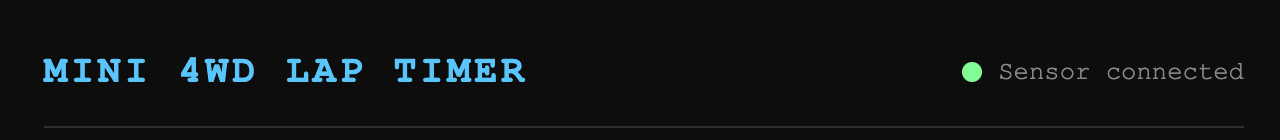
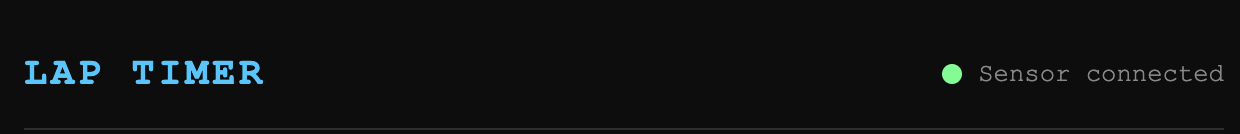
Update branding, docs, and screenshots for Mini4WDGeek.com
- Rename title/footer link from Mini4WDValley.com to Mini4WDGeek.com
- Refresh docs screenshots and add new hardware photos
- Fix README formatting and project structure block
- Update user guide image refs and sensor status section

diff --git a/static/index.html b/static/index.html
@@ -3,13 +3,13 @@
 <head>
   <meta charset="UTF-8">
   <meta name="viewport" content="width=device-width, initial-scale=1.0">
-  <title>Mini 4WD Lap Timer</title>
+  <title>Lap Timer - Mini4WDGeek.com</title>
   <link rel="stylesheet" href="style.css">
 </head>
 <body>
   <div class="container">
     <header>
-      <h1>Mini 4WD Lap Timer</h1>
+      <h1>Lap Timer</h1>
       <div class="status">
         <span class="status-dot" id="status-dot"></span>
         <span id="status-text">Sensor disconnected</span>
@@ -81,7 +81,7 @@
     </div>
 
     <footer>
-      <p>&copy; <span id="copyright-year"></span> <a href="https://Mini4WDValley.com" target="_blank" rel="noopener">Mini4WDValley.com</a></p>
+      <p>&copy; <span id="copyright-year"></span> <a href="https://Mini4WDGeek.com" target="_blank" rel="noopener">Mini4WDGeek.com</a></p>
     </footer>
   </div>
 

diff --git a/docs/user-guide.md b/docs/user-guide.md
@@ -4,7 +4,7 @@
 
 The lap timer tracks your Mini 4WD car's lap times in real time using an IR sensor connected to an Arduino. Open `http://localhost:8080` in your browser to access the timer.
 
-![Full app layout](images/lap-timer-main-layout.png)
+![Full app layout](images/main.png)
 
 ---
 
@@ -13,48 +13,49 @@ The lap timer tracks your Mini 4WD car's lap times in real time using an IR sens
 ![Current Lap and Race timer display](images/lap-timers.png)
 
 ### Current Lap (large orange display)
+
 Shows the time elapsed for the lap currently in progress. Resets to `0:00.0` at the start of each new lap.
 
 ### Race (blue display below)
+
 Shows the total time elapsed for the entire race session, excluding any paused time.
 
 ### Scoreboard
 
 ![Scoreboard display](images/scoreboard.png)
 
-<table border="1" cellpadding="8" cellspacing="0">
-  <thead>
-    <tr>
-      <th>Field</th>
-      <th>Location</th>
-      <th>Description</th>
-    </tr>
-  </thead>
-  <tbody>
-    <tr>
-      <td><strong>Total Time</strong></td>
-      <td>Top left</td>
-      <td>Sum of all completed laps</td>
-    </tr>
-    <tr>
-      <td><strong>Lap</strong></td>
-      <td>Top right</td>
-      <td>Number of completed laps</td>
-    </tr>
-    <tr>
-      <td><strong>Last Lap</strong></td>
-      <td>Bottom left</td>
-      <td>Time of the most recently completed lap</td>
-    </tr>
-    <tr>
-      <td><strong>Best Lap</strong></td>
-      <td>Bottom right</td>
-      <td>Fastest lap of the session — highlighted in gold</td>
-    </tr>
-  </tbody>
-</table>
+Field
+
+Location
+
+Description
+
+**Total Time**
+
+Top left
+
+Sum of all completed laps
+
+**Lap**
+
+Top right
+
+Number of completed laps
+
+**Last Lap**
+
+Bottom left
+
+Time of the most recently completed lap
+
+**Best Lap**
+
+Bottom right
+
+Fastest lap of the session — highlighted in gold
 
 ### Lap History
+
 A scrolling list of every completed lap. The best lap is marked with a ★.
 
 ---
@@ -62,21 +63,27 @@ A scrolling list of every completed lap. The best lap is marked with a ★.
 ## Buttons
 
 ### Start
+
 Appears when the timer is idle. Arms the sensor and waits for the car to cross the IR beam for the first time. A 3-beep countdown plays to signal the timer is ready.
 
 ### Stop
+
 Ends the race session immediately. The session is saved to history. A descending sound plays to confirm.
 
 ### Pause
+
 Freezes both the current lap and race timers. The car's position is noted — use this when you need to interrupt a run.
 
 ### Resume
+
 Appears after pausing. Clicking Resume puts the timer into a waiting state — **the timers do not start immediately**. Place the car at the track and let it pass the IR sensor; the moment it crosses, the race timer resumes and a fresh lap begins. A GO sound plays on the trigger.
 
 ### Reset Time
+
 Appears when paused. Removes the current incomplete lap from the race timer without ending the session. Useful when you want to discard a partial lap before resuming.
 
 ### Reset
+
 Clears all lap data and returns the timer to idle. The session is saved to history before resetting. A descending arpeggio plays to confirm.
 
 ---
@@ -85,69 +92,62 @@ Clears all lap data and returns the timer to idle. The session is saved to histo
 
 Sounds can be toggled on or off in the **Settings** panel at the bottom of the page. The preference is saved between sessions.
 
-<table border="1" cellpadding="8" cellspacing="0">
-  <thead>
-    <tr>
-      <th>Event</th>
-      <th>Sound</th>
-    </tr>
-  </thead>
-  <tbody>
-    <tr>
-      <td>Start armed</td>
-      <td>3 short beeps (countdown)</td>
-    </tr>
-    <tr>
-      <td>Car crosses start line</td>
-      <td>Rising two-note GO burst</td>
-    </tr>
-    <tr>
-      <td>Lap completed</td>
-      <td>Bell ping</td>
-    </tr>
-    <tr>
-      <td>New best lap</td>
-      <td>Ascending arpeggio (C–E–G–C)</td>
-    </tr>
-    <tr>
-      <td>Pause</td>
-      <td>Descending two-tone</td>
-    </tr>
-    <tr>
-      <td>Resume clicked</td>
-      <td>Rising two-tone</td>
-    </tr>
-    <tr>
-      <td>Stop</td>
-      <td>Low descending blip</td>
-    </tr>
-    <tr>
-      <td>Reset Time</td>
-      <td>Soft tick</td>
-    </tr>
-    <tr>
-      <td>Reset</td>
-      <td>Descending arpeggio</td>
-    </tr>
-  </tbody>
-</table>
+Event
+
+Sound
+
+Start armed
+
+3 short beeps (countdown)
+
+Car crosses start line
+
+Rising two-note GO burst
+
+Lap completed
+
+Bell ping
+
+New best lap
+
+Ascending arpeggio (C–E–G–C)
+
+Pause
+
+Descending two-tone
+
+Resume clicked
+
+Rising two-tone
+
+Stop
+
+Low descending blip
+
+Reset Time
+
+Soft tick
+
+Reset
+
+Descending arpeggio
 
 ---
 
 ## Typical Race Flow
 
-1. Click **Start** — 3 beeps confirm the sensor is armed
-2. Release the car — the timer starts the moment it crosses the IR beam
-3. Each time the car completes a lap, the lap time is recorded automatically
-4. Click **Stop** when the race is over — the session is saved
-5. Click **Reset** to clear and start fresh for the next race
+1.  Click **Start** — 3 beeps confirm the sensor is armed
+2.  Release the car — the timer starts the moment it crosses the IR beam
+3.  Each time the car completes a lap, the lap time is recorded automatically
+4.  Click **Stop** when the race is over — the session is saved
+5.  Click **Reset** to clear and start fresh for the next race
 
 ## Pausing Mid-Race
 
-1. Click **Pause** — both timers freeze
-2. Optionally click **Reset Time** to discard the current partial lap
-3. Click **Resume** — the timer waits in a ready state
-4. Send the car through the IR beam — race resumes with a fresh lap
+1.  Click **Pause** — both timers freeze
+2.  Optionally click **Reset Time** to discard the current partial lap
+3.  Click **Resume** — the timer waits in a ready state
+4.  Send the car through the IR beam — race resumes with a fresh lap
 
 ---
 
@@ -161,9 +161,12 @@ Past sessions are stored and accessible via the **Session History** panel at the
 
 ## Connection Status
 
-The indicator in the top-right corner shows the live connection to the server:
+The indicator in the top-right corner shows the live connection to the sensor:
 
-![Connected indicator](images/sensor-connected.png)
+![Green Connected indicator](images/sensor-connected.png)
 
-- **Green dot** — connected, sensor active
-- **Red dot** — disconnected, attempting to reconnect automatically
+-   **Green dot** — connected, sensor active
+
+![Red Connected indicator](images/sensor-disconnected.png)
+
+-   **Red dot** — disconnected, attempting to reconnect automatically

diff --git a/README.md b/README.md
@@ -1,26 +1,26 @@
-# Mini 4WD Lap Timer
+# Mini 4WD Racing Lap Timer
 
 A real-time lap timer for Mini 4WD racing, built with Go and vanilla JavaScript. An Arduino with an IR sensor detects each car pass and triggers lap recording via serial port. Results are broadcast live to the browser over WebSocket.
 
 ## Features
 
-- Real-time current lap and total race time display
-- Lap history with best lap highlighted
-- Pause, resume, and reset support
-- Session history saved to disk
-- Race sounds (countdown, GO, lap bell, best lap arpeggio)
+-   Real-time current lap and total race time display
+-   Lap history with best lap highlighted
+-   Pause, resume, and reset support
+-   Session history saved to disk
+-   Race sounds (countdown, GO, lap bell, best lap arpeggio)
 
 ## Requirements
 
-- Go 1.22+
-- Arduino with IR sensor connected via USB serial
-- A browser
+-   Go 1.22+
+-   Arduino with IR sensor connected via USB serial
+-   A browser
 
 ## Hardware Setup
 
-1. Connect the IR receiver output to Arduino **D2**
-2. Flash the sketch at `arduino/lap_sensor/lap_sensor.ino`
-3. Connect the Arduino to the computer via USB
+1.  Connect the IR receiver output to Arduino **D2**
+2.  Flash the sketch at `arduino/lap_sensor/lap_sensor.ino`
+3.  Connect the Arduino to the computer via USB
 
 The Arduino sends a `TRIGGER` line over serial (9600 baud) each time the IR beam is broken, with a 500 ms debounce.
 
@@ -34,10 +34,23 @@ Then open `http://localhost:8080` in a browser.
 
 ### Options
 
-| Flag | Default | Description |
-|------|---------|-------------|
-| `-port` | `/dev/ttyUSB0` | Serial port the Arduino is connected to |
-| `-addr` | `:8080` | HTTP listen address |
+Flag
+
+Default
+
+Description
+
+`-port`
+
+`/dev/ttyUSB0`
+
+Serial port the Arduino is connected to
+
+`-addr`
+
+`:8080`
+
+HTTP listen address
 
 Example:
 
